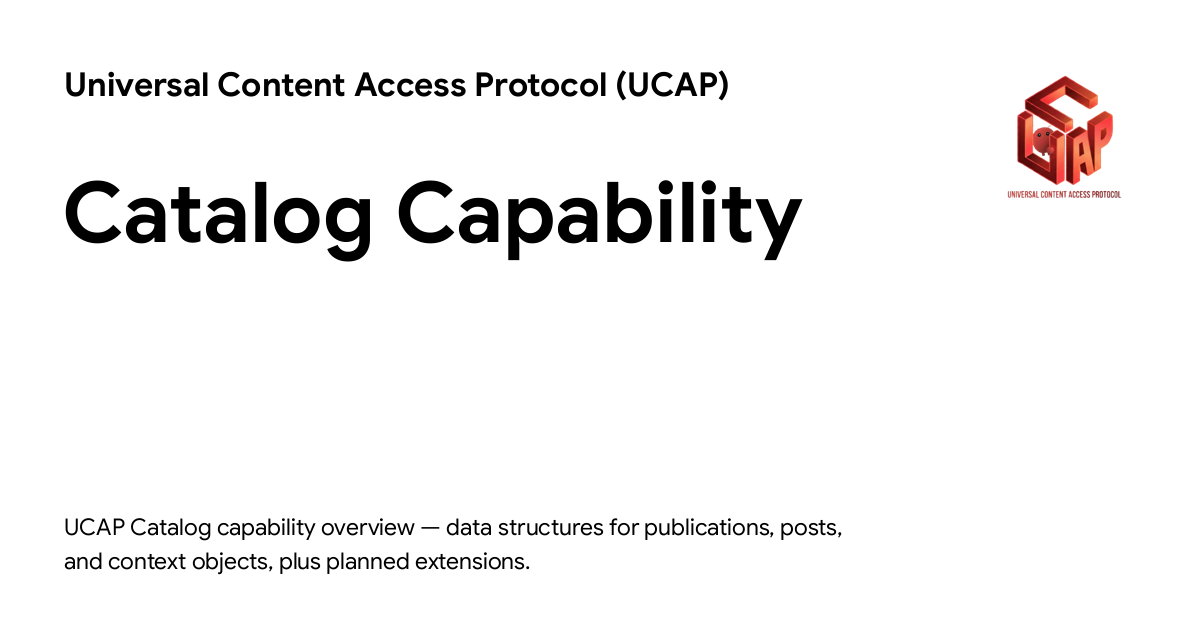
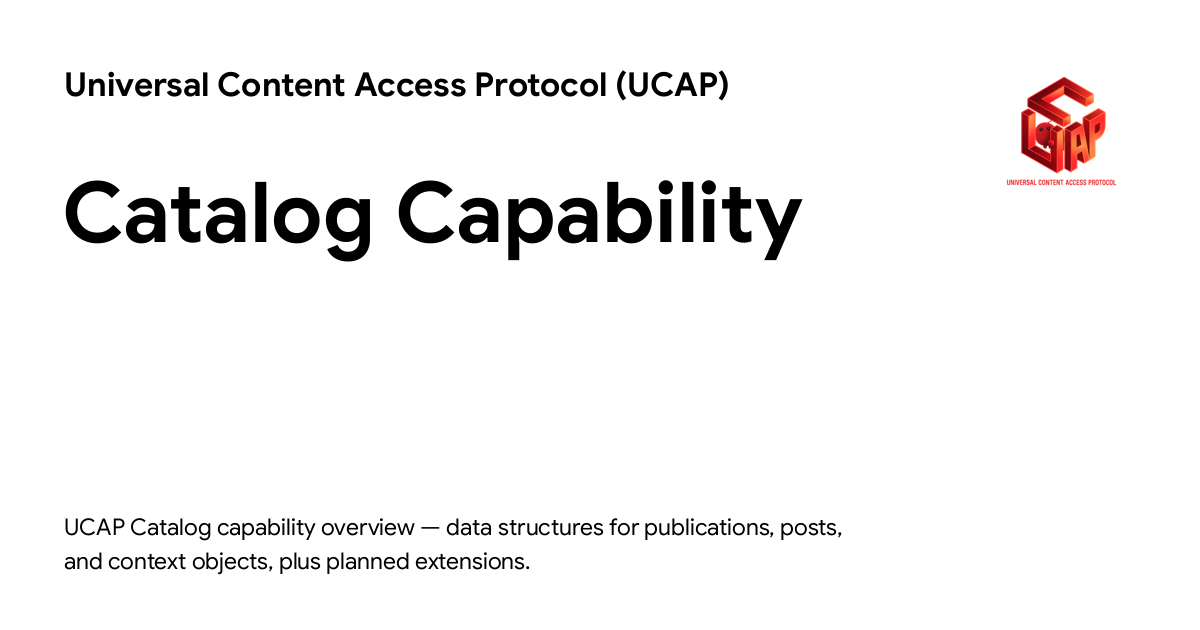
Deployed 75cc323 with MkDocs version: 1.6.1

Changed region(s): [[0.8325, 0.1206, 0.925, 0.3317]]

diff --git a/index.html b/index.html
@@ -20,7 +20,7 @@
         
       
       
-      <link rel="icon" href="assets/ucap-logo.png">
+      <link rel="icon" href="assets/ucap-favicon.png">
       <meta name="generator" content="mkdocs-1.6.1, mkdocs-material-9.7.1">
     
     
@@ -1246,7 +1246,7 @@
 <p>UCAP extends the <a href="https://ucp.dev" target="_blank">Universal Commerce Protocol (UCP)</a> with capabilities purpose-built for content access — discovery, catalog search, entitlement-based reading, and subscription management. Where UCP handles commerce, UCAP handles content.</p>
 </div>
 <div class="ucap-hero__logo">
-  <img src="assets/ucap-logo.png" alt="UCAP logo" width="250">
+  <img src="assets/ucap-logo.png" alt="UCAP logo" width="400">
 </div>
 </div>
 <div class="ucap-promo">

diff --git a/documentation/conformance/index.html b/documentation/conformance/index.html
@@ -20,7 +20,7 @@
         
       
       
-      <link rel="icon" href="../../assets/ucap-logo.png">
+      <link rel="icon" href="../../assets/ucap-favicon.png">
       <meta name="generator" content="mkdocs-1.6.1, mkdocs-material-9.7.1">
     
     

diff --git a/documentation/core-concepts/index.html b/documentation/core-concepts/index.html
@@ -22,7 +22,7 @@
         
       
       
-      <link rel="icon" href="../../assets/ucap-logo.png">
+      <link rel="icon" href="../../assets/ucap-favicon.png">
       <meta name="generator" content="mkdocs-1.6.1, mkdocs-material-9.7.1">
     
     

diff --git a/specification/catalog-lookup/index.html b/specification/catalog-lookup/index.html
@@ -22,7 +22,7 @@
         
       
       
-      <link rel="icon" href="../../assets/ucap-logo.png">
+      <link rel="icon" href="../../assets/ucap-favicon.png">
       <meta name="generator" content="mkdocs-1.6.1, mkdocs-material-9.7.1">
     
     

diff --git a/specification/catalog-search/index.html b/specification/catalog-search/index.html
@@ -22,7 +22,7 @@
         
       
       
-      <link rel="icon" href="../../assets/ucap-logo.png">
+      <link rel="icon" href="../../assets/ucap-favicon.png">
       <meta name="generator" content="mkdocs-1.6.1, mkdocs-material-9.7.1">
     
     

diff --git a/specification/catalog/index.html b/specification/catalog/index.html
@@ -22,7 +22,7 @@
         
       
       
-      <link rel="icon" href="../../assets/ucap-logo.png">
+      <link rel="icon" href="../../assets/ucap-favicon.png">
       <meta name="generator" content="mkdocs-1.6.1, mkdocs-material-9.7.1">
     
     

diff --git a/specification/content-access/index.html b/specification/content-access/index.html
@@ -22,7 +22,7 @@
         
       
       
-      <link rel="icon" href="../../assets/ucap-logo.png">
+      <link rel="icon" href="../../assets/ucap-favicon.png">
       <meta name="generator" content="mkdocs-1.6.1, mkdocs-material-9.7.1">
     
     

diff --git a/specification/content-discovery/index.html b/specification/content-discovery/index.html
@@ -22,7 +22,7 @@
         
       
       
-      <link rel="icon" href="../../assets/ucap-logo.png">
+      <link rel="icon" href="../../assets/ucap-favicon.png">
       <meta name="generator" content="mkdocs-1.6.1, mkdocs-material-9.7.1">
     
     

diff --git a/specification/identity-linking/index.html b/specification/identity-linking/index.html
@@ -22,7 +22,7 @@
         
       
       
-      <link rel="icon" href="../../assets/ucap-logo.png">
+      <link rel="icon" href="../../assets/ucap-favicon.png">
       <meta name="generator" content="mkdocs-1.6.1, mkdocs-material-9.7.1">
     
     

diff --git a/specification/mcp-integration/index.html b/specification/mcp-integration/index.html
@@ -22,7 +22,7 @@
         
       
       
-      <link rel="icon" href="../../assets/ucap-logo.png">
+      <link rel="icon" href="../../assets/ucap-favicon.png">
       <meta name="generator" content="mkdocs-1.6.1, mkdocs-material-9.7.1">
     
     

diff --git a/specification/overview/index.html b/specification/overview/index.html
@@ -22,7 +22,7 @@
         
       
       
-      <link rel="icon" href="../../assets/ucap-logo.png">
+      <link rel="icon" href="../../assets/ucap-favicon.png">
       <meta name="generator" content="mkdocs-1.6.1, mkdocs-material-9.7.1">
     
     

diff --git a/specification/payment-flow/index.html b/specification/payment-flow/index.html
@@ -22,7 +22,7 @@
         
       
       
-      <link rel="icon" href="../../assets/ucap-logo.png">
+      <link rel="icon" href="../../assets/ucap-favicon.png">
       <meta name="generator" content="mkdocs-1.6.1, mkdocs-material-9.7.1">
     
     
